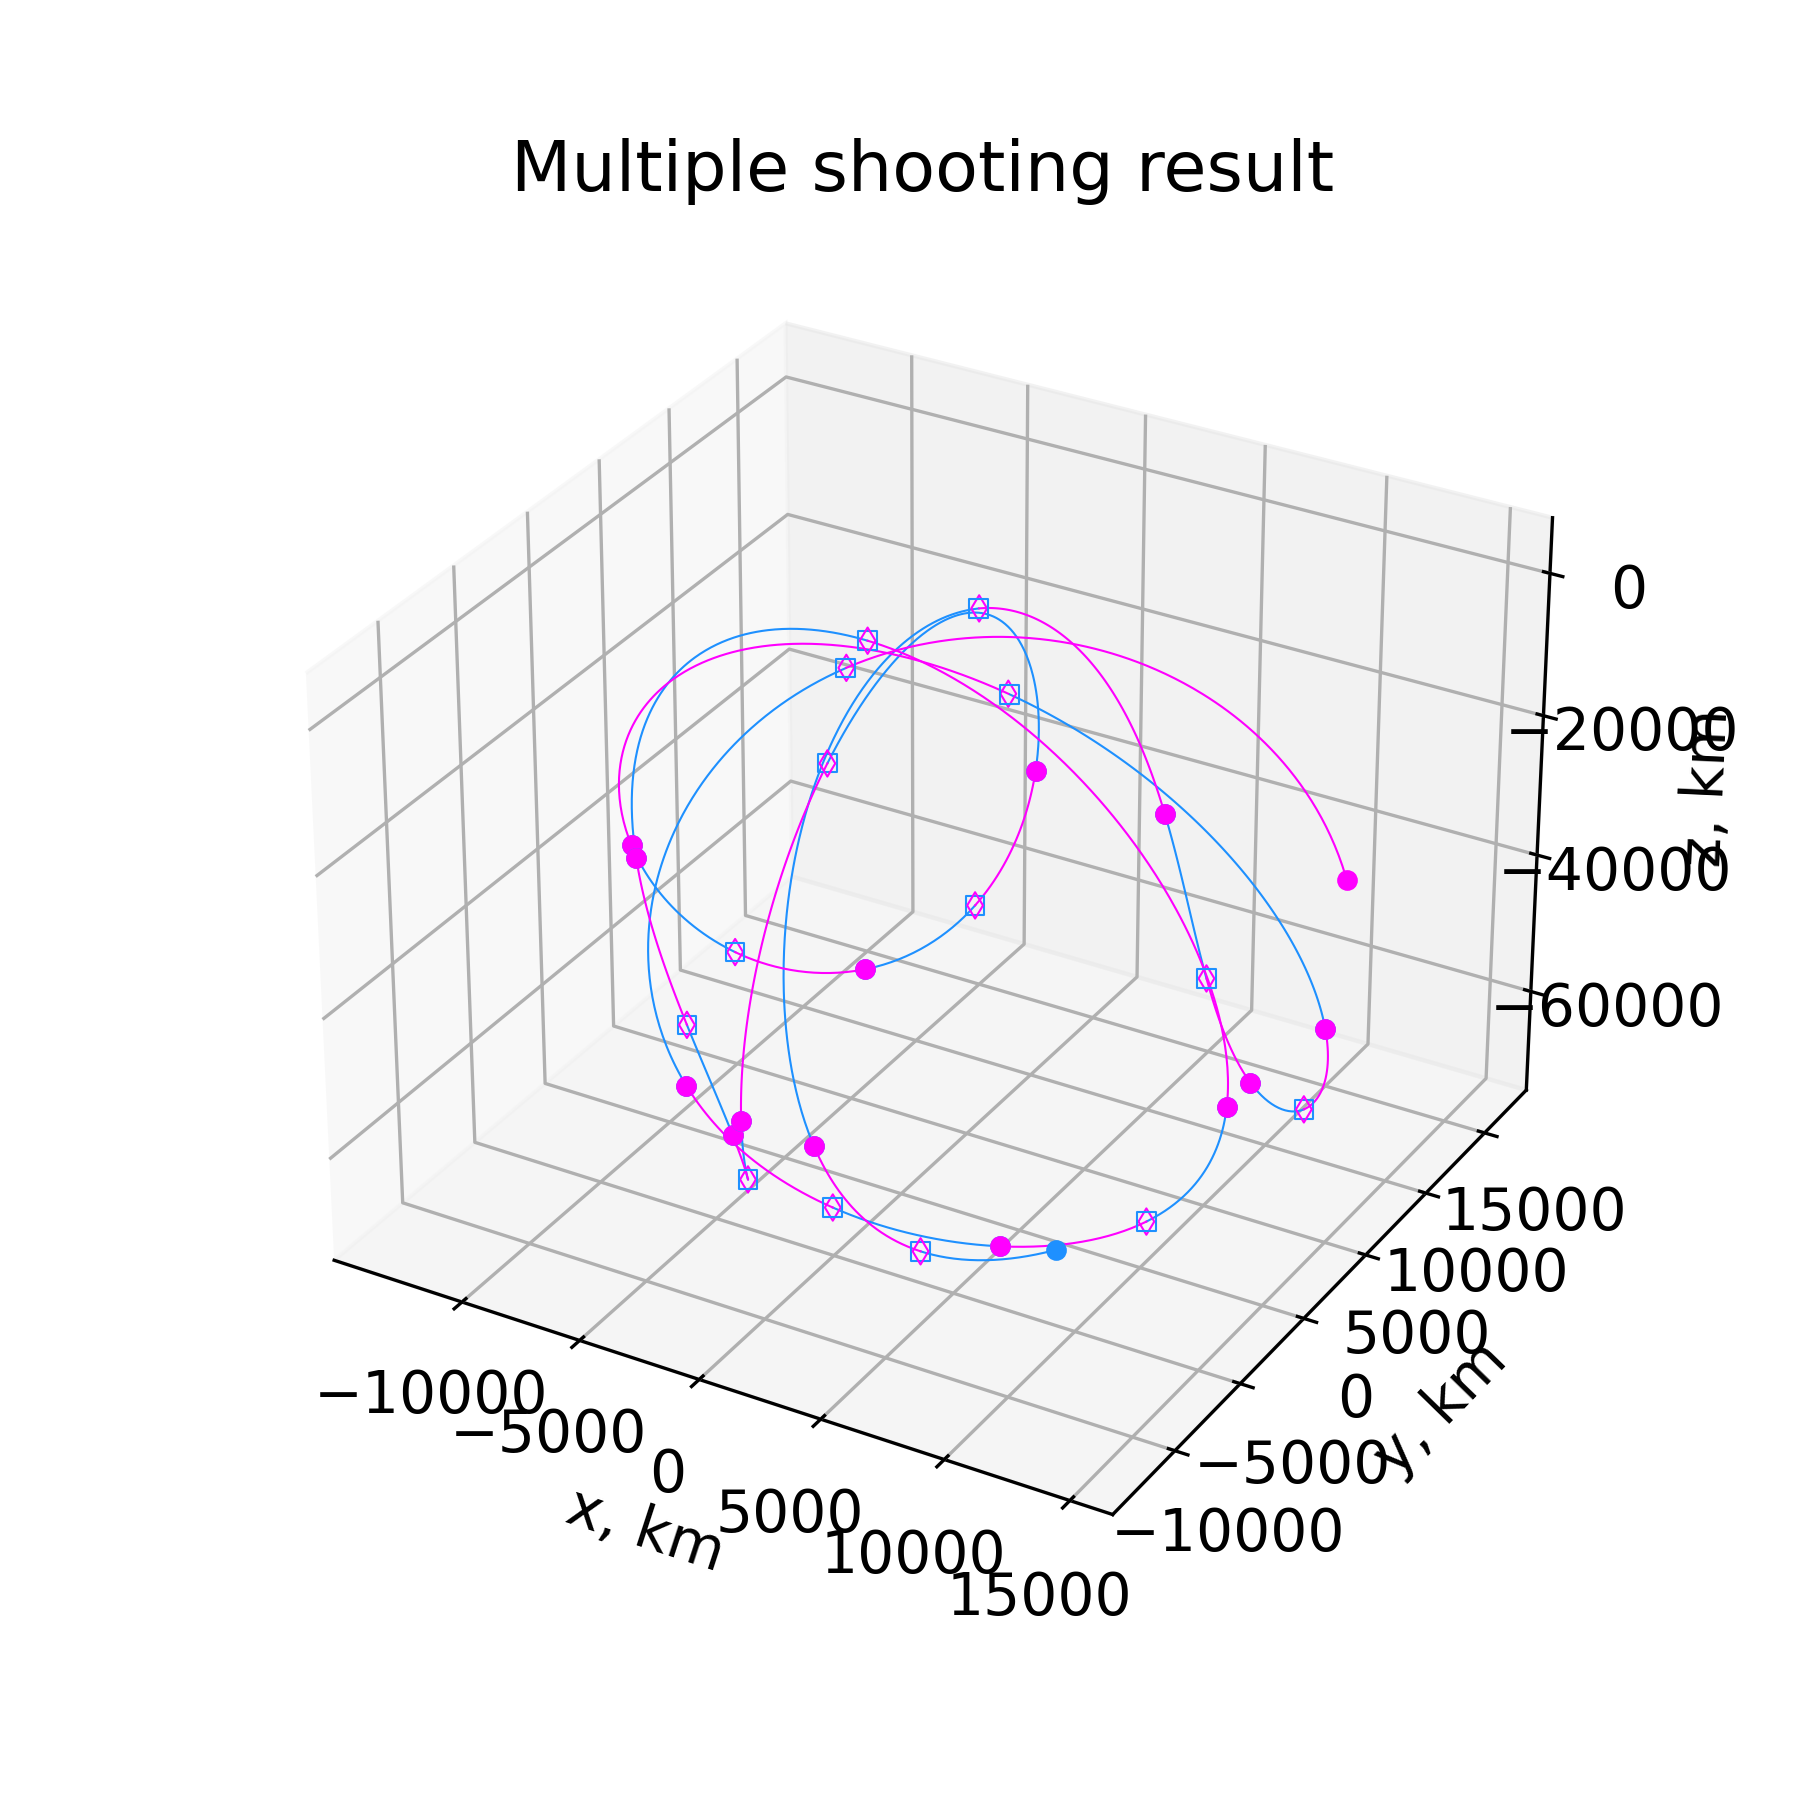
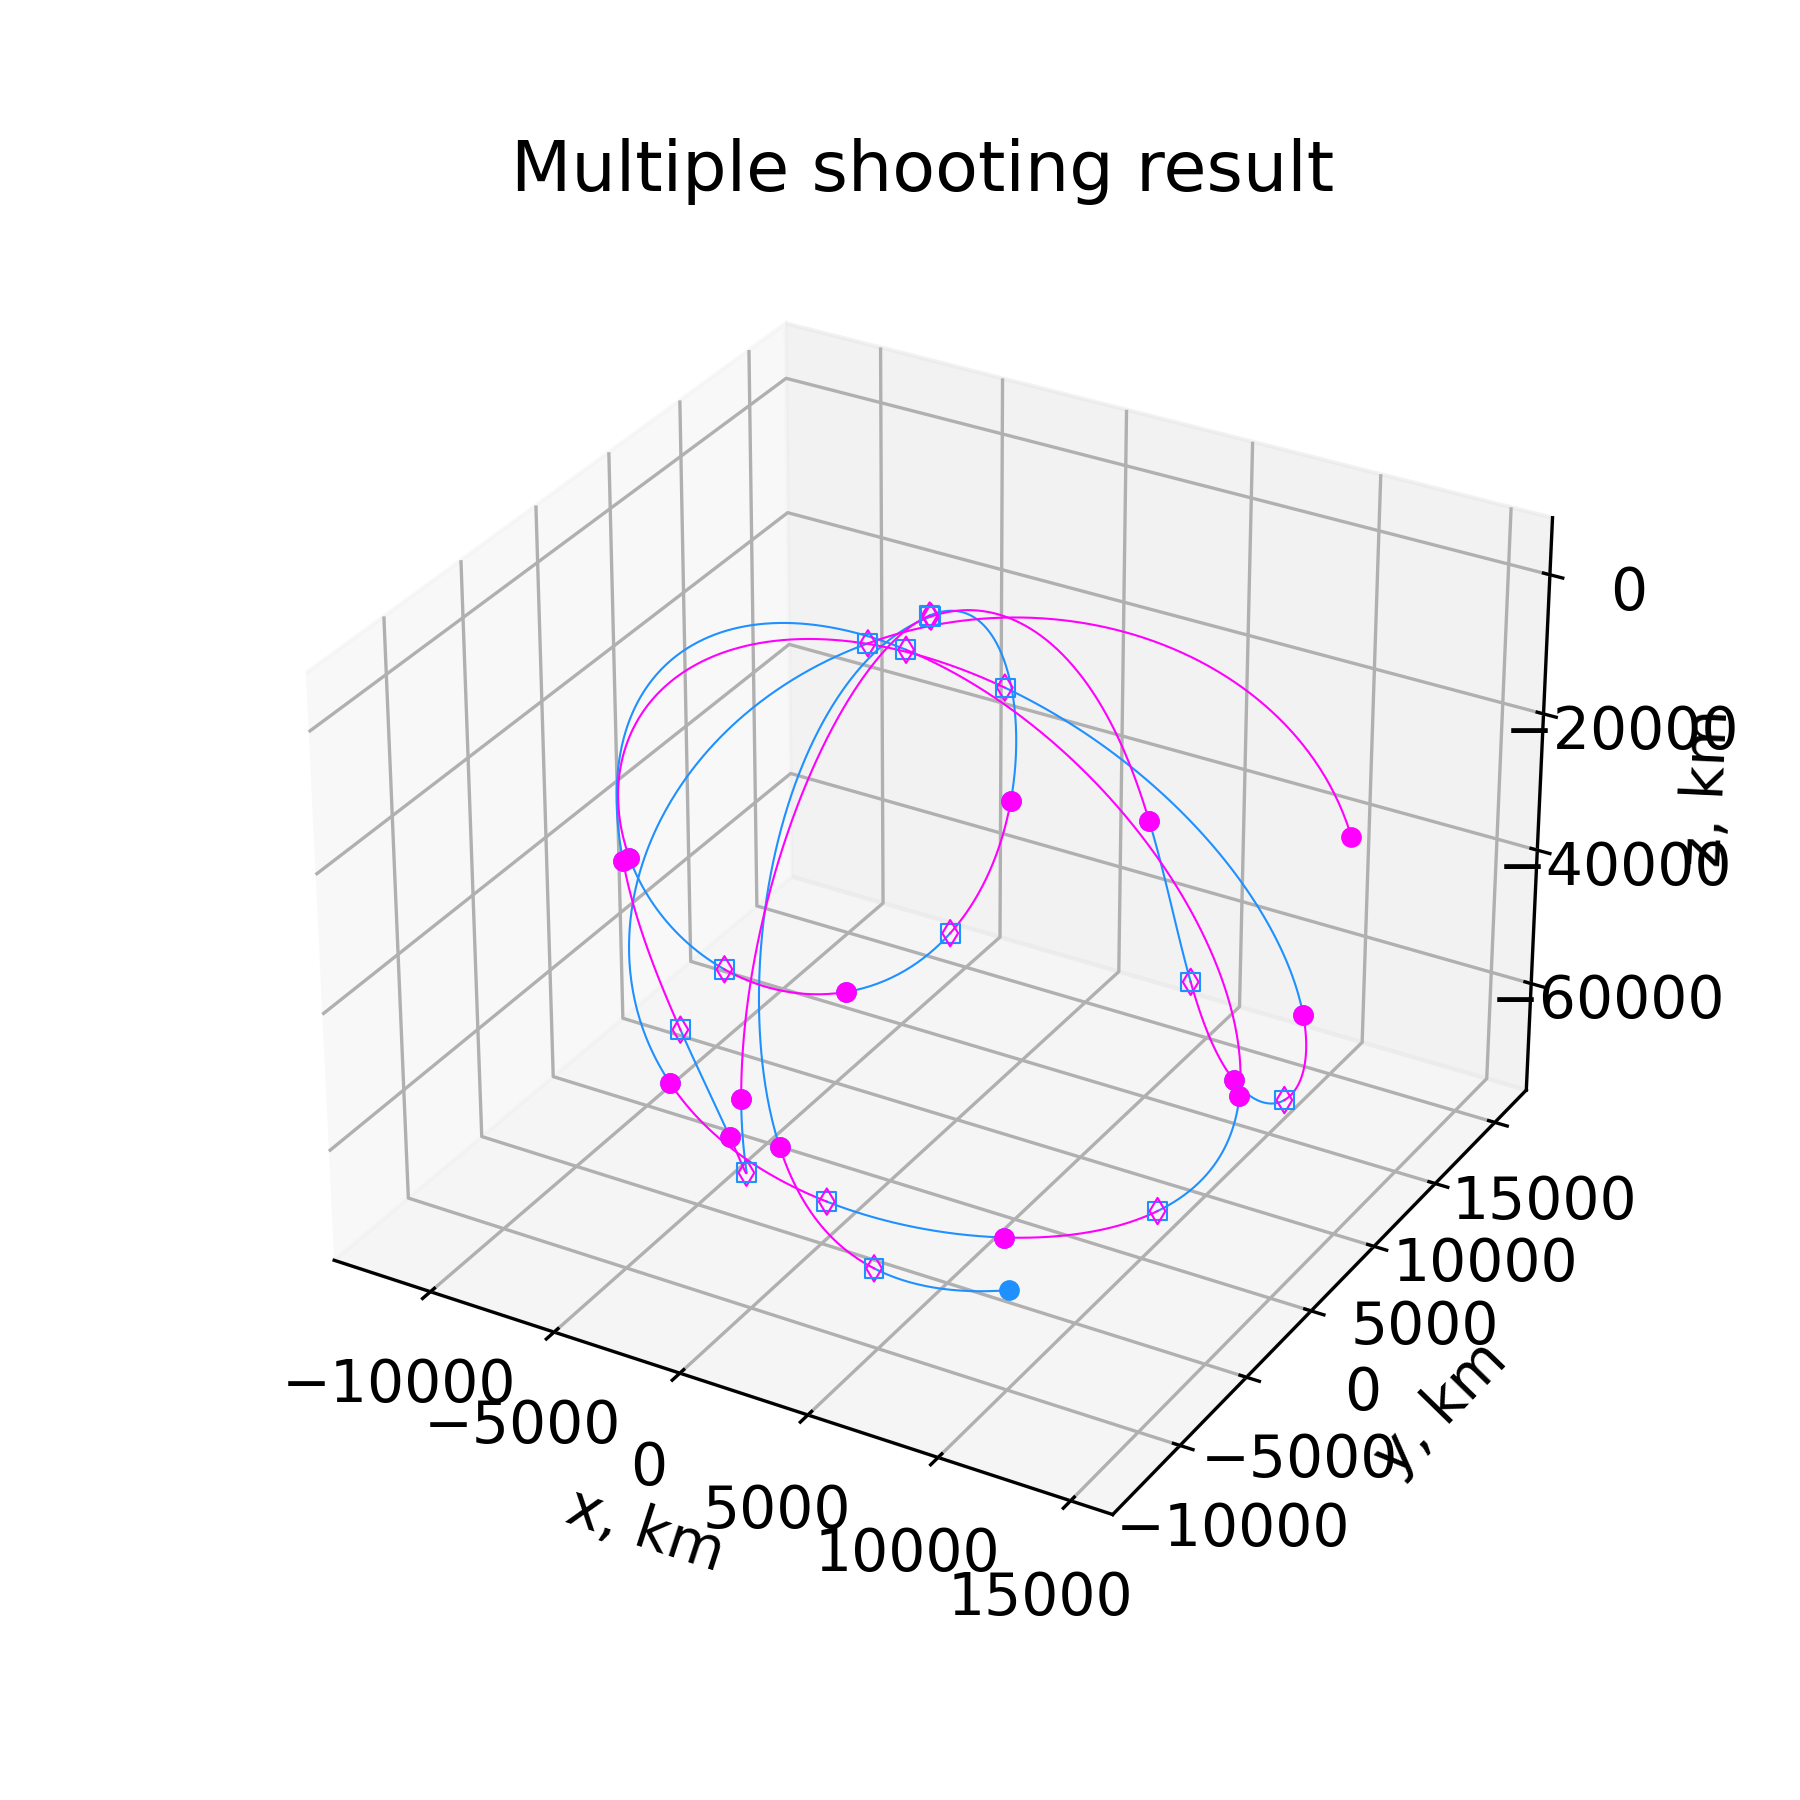
ms

diff --git a/tests/test_multiple_shooting.py b/tests/test_multiple_shooting.py
@@ -199,7 +199,7 @@ def test_multiple_shooting():
         ax.plot(sol1.y[0,:]*prop_nbody.lstar, sol1.y[1,:]*prop_nbody.lstar, sol1.y[2,:]*prop_nbody.lstar,
             color="magenta", linewidth=0.5)
         ax.scatter(sol1.y[0,-1]*prop_nbody.lstar, sol1.y[1,-1]*prop_nbody.lstar, sol1.y[2,-1]*prop_nbody.lstar,
-            marker="d", edgecolors="magenta", facecolors="None", linewidth=0.5)
+            marker="s", edgecolors="magenta", facecolors="None", linewidth=0.5)
     ax.set_title("Initial guess")
     ax.set(xlabel="x, km", ylabel="y, km", zlabel="z, km")
 
@@ -210,7 +210,7 @@ def test_multiple_shooting():
     # run multiple shooting
     tstart = time.time()
     xs_list, fs_list, convergence_flag = udp.multiple_shooting(
-        x0, max_iter=20, damping=1.0,
+        x0, max_iter=10, damping=0.75,
     )
     tend = time.time()
     print(f"Elapsed time: {tend-tstart:1.4f} sec; convergence_flag = {convergence_flag}")
@@ -233,7 +233,7 @@ def test_multiple_shooting():
         ax.plot(sol1.y[0,:]*prop_nbody.lstar, sol1.y[1,:]*prop_nbody.lstar, sol1.y[2,:]*prop_nbody.lstar,
             color="magenta", linewidth=0.5)
         ax.scatter(sol1.y[0,-1]*prop_nbody.lstar, sol1.y[1,-1]*prop_nbody.lstar, sol1.y[2,-1]*prop_nbody.lstar,
-            marker="d", edgecolors="magenta", facecolors="None", linewidth=0.5)
+            marker="s", edgecolors="magenta", facecolors="None", linewidth=0.5)
     ax.set_title("Multiple shooting result")
     ax.set(xlabel="x, km", ylabel="y, km", zlabel="z, km")
     plt.savefig("../plots/test_multiple_shooting.png", dpi=300)

diff --git a/luna2/_udp_FullEphemerisTransition.py b/luna2/_udp_FullEphemerisTransition.py
@@ -307,12 +307,12 @@ class FullEphemerisTransition:
             fs_list.append(f_iter)
 
             if np.linalg.norm(f_iter[1:]) <= ftol:
-                print(f"Met convergence criteria at iteration {idx} : ||f|| = {np.linalg.norm(f_iter[1:]):1.4e} | time elapsed = {time.time()-tstart:1.2f} sec")
+                print(f"Met convergence criteria at iteration {idx} : ||f|| = {np.linalg.norm(f_iter[1:]):1.4e} : time elapsed = {time.time()-tstart:1.2f} sec")
                 convergence_flag = True
                 break
 
             if verbose:
-                print(f"Iteration {idx+1} / {max_iter} : ||f|| = {np.linalg.norm(f_iter[1:]):1.4e}")
+                print(f"Iteration {idx+1} / {max_iter} : ||f|| = {np.linalg.norm(f_iter[1:]):1.4e} : time elapsed = {time.time()-tstart:1.2f} sec")
 
             # compute gradient
             grad_custom = np.array(self.gradient(x_iter, dx=dx)).reshape(len(f_iter)+1, len(x_iter))
